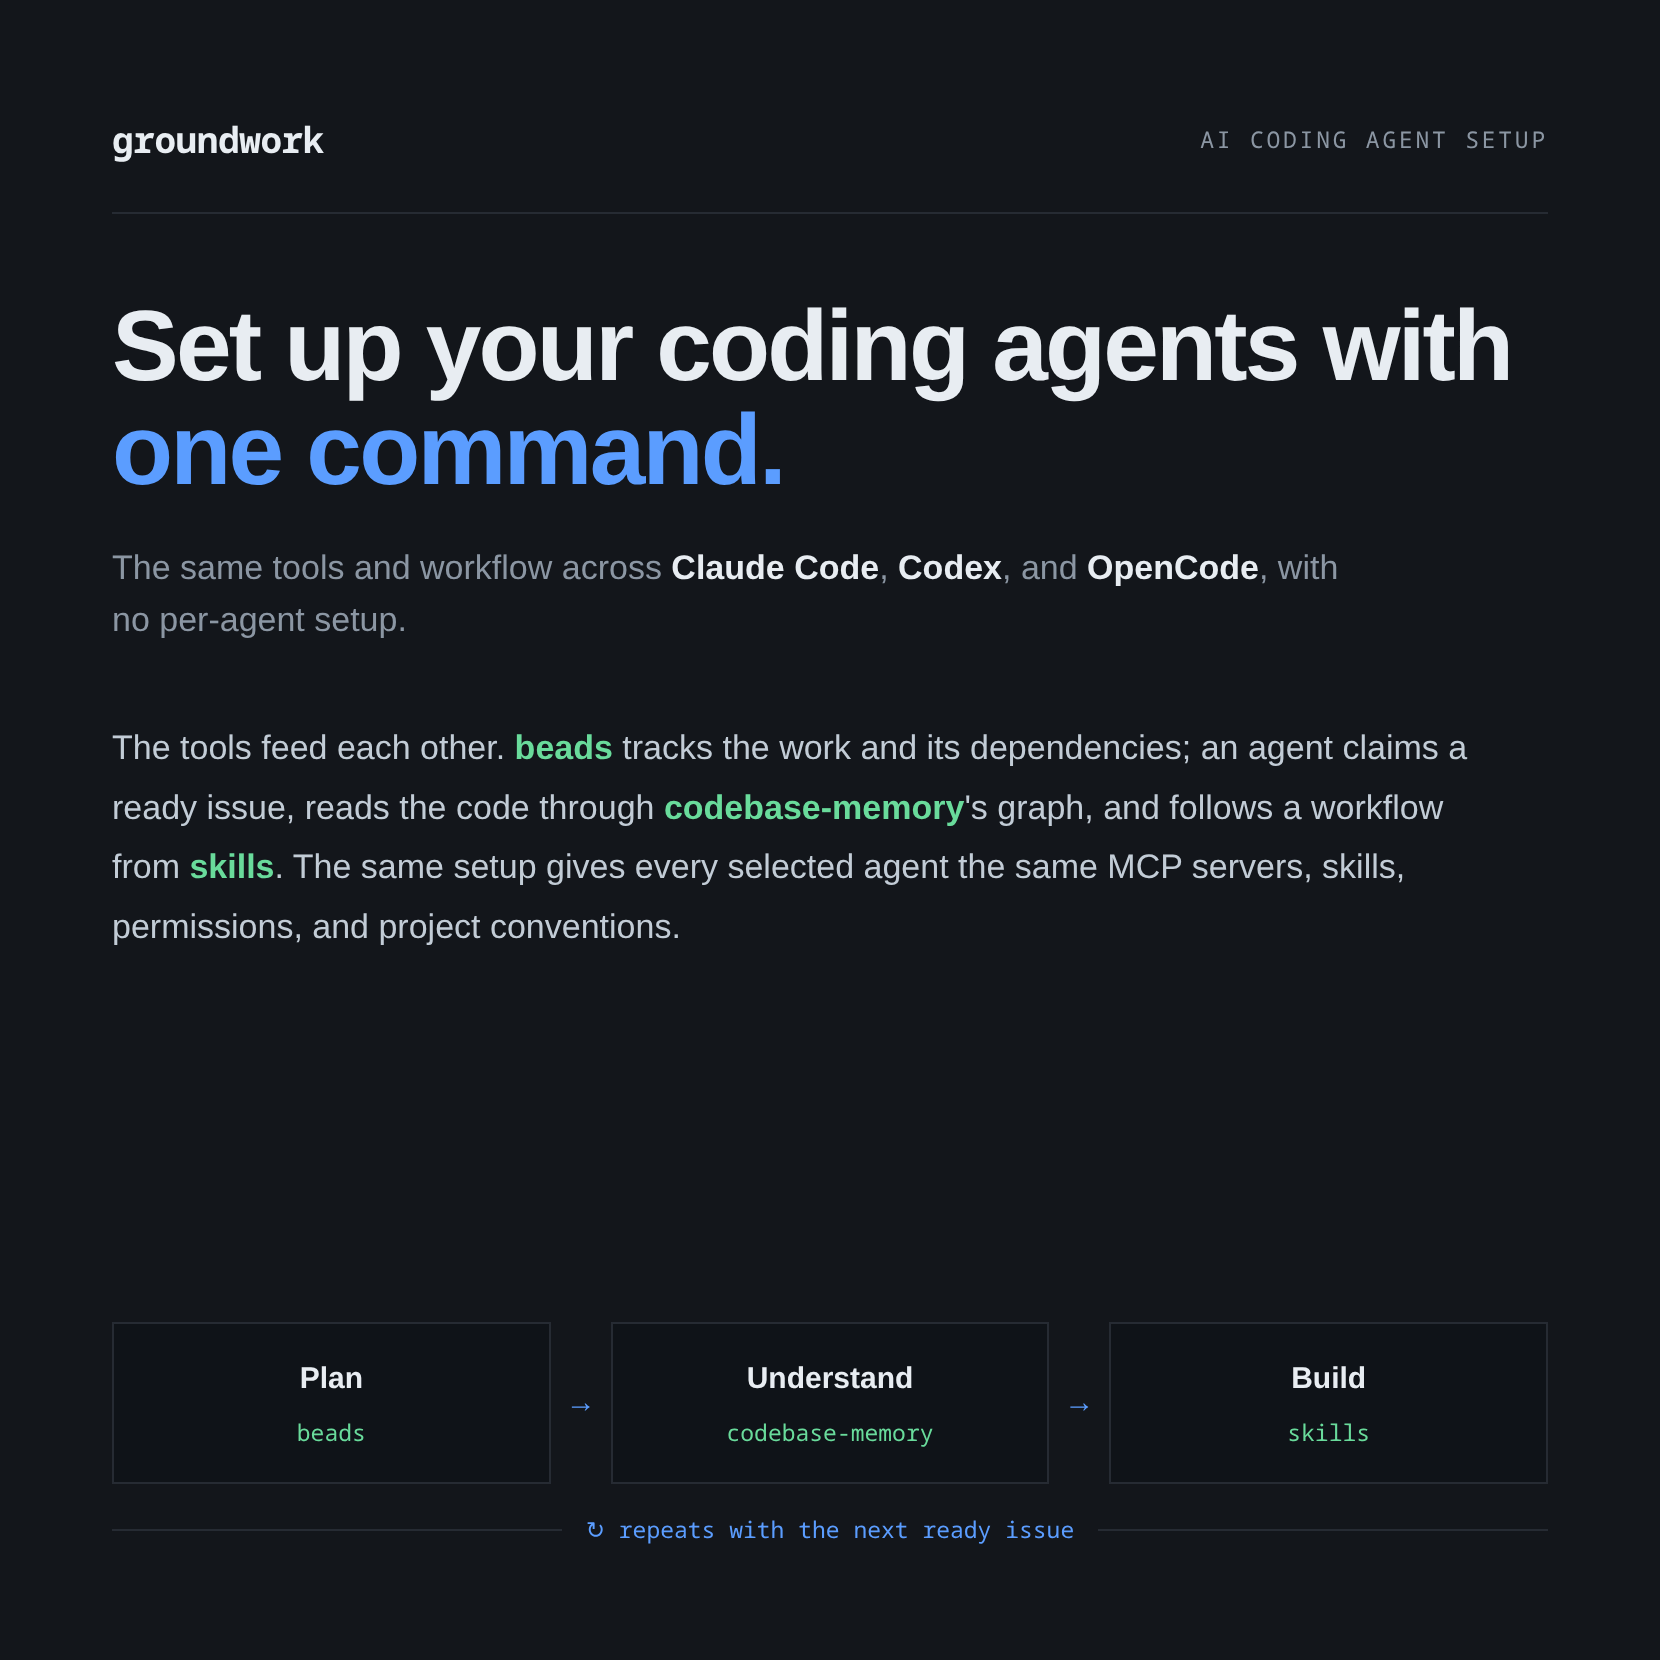
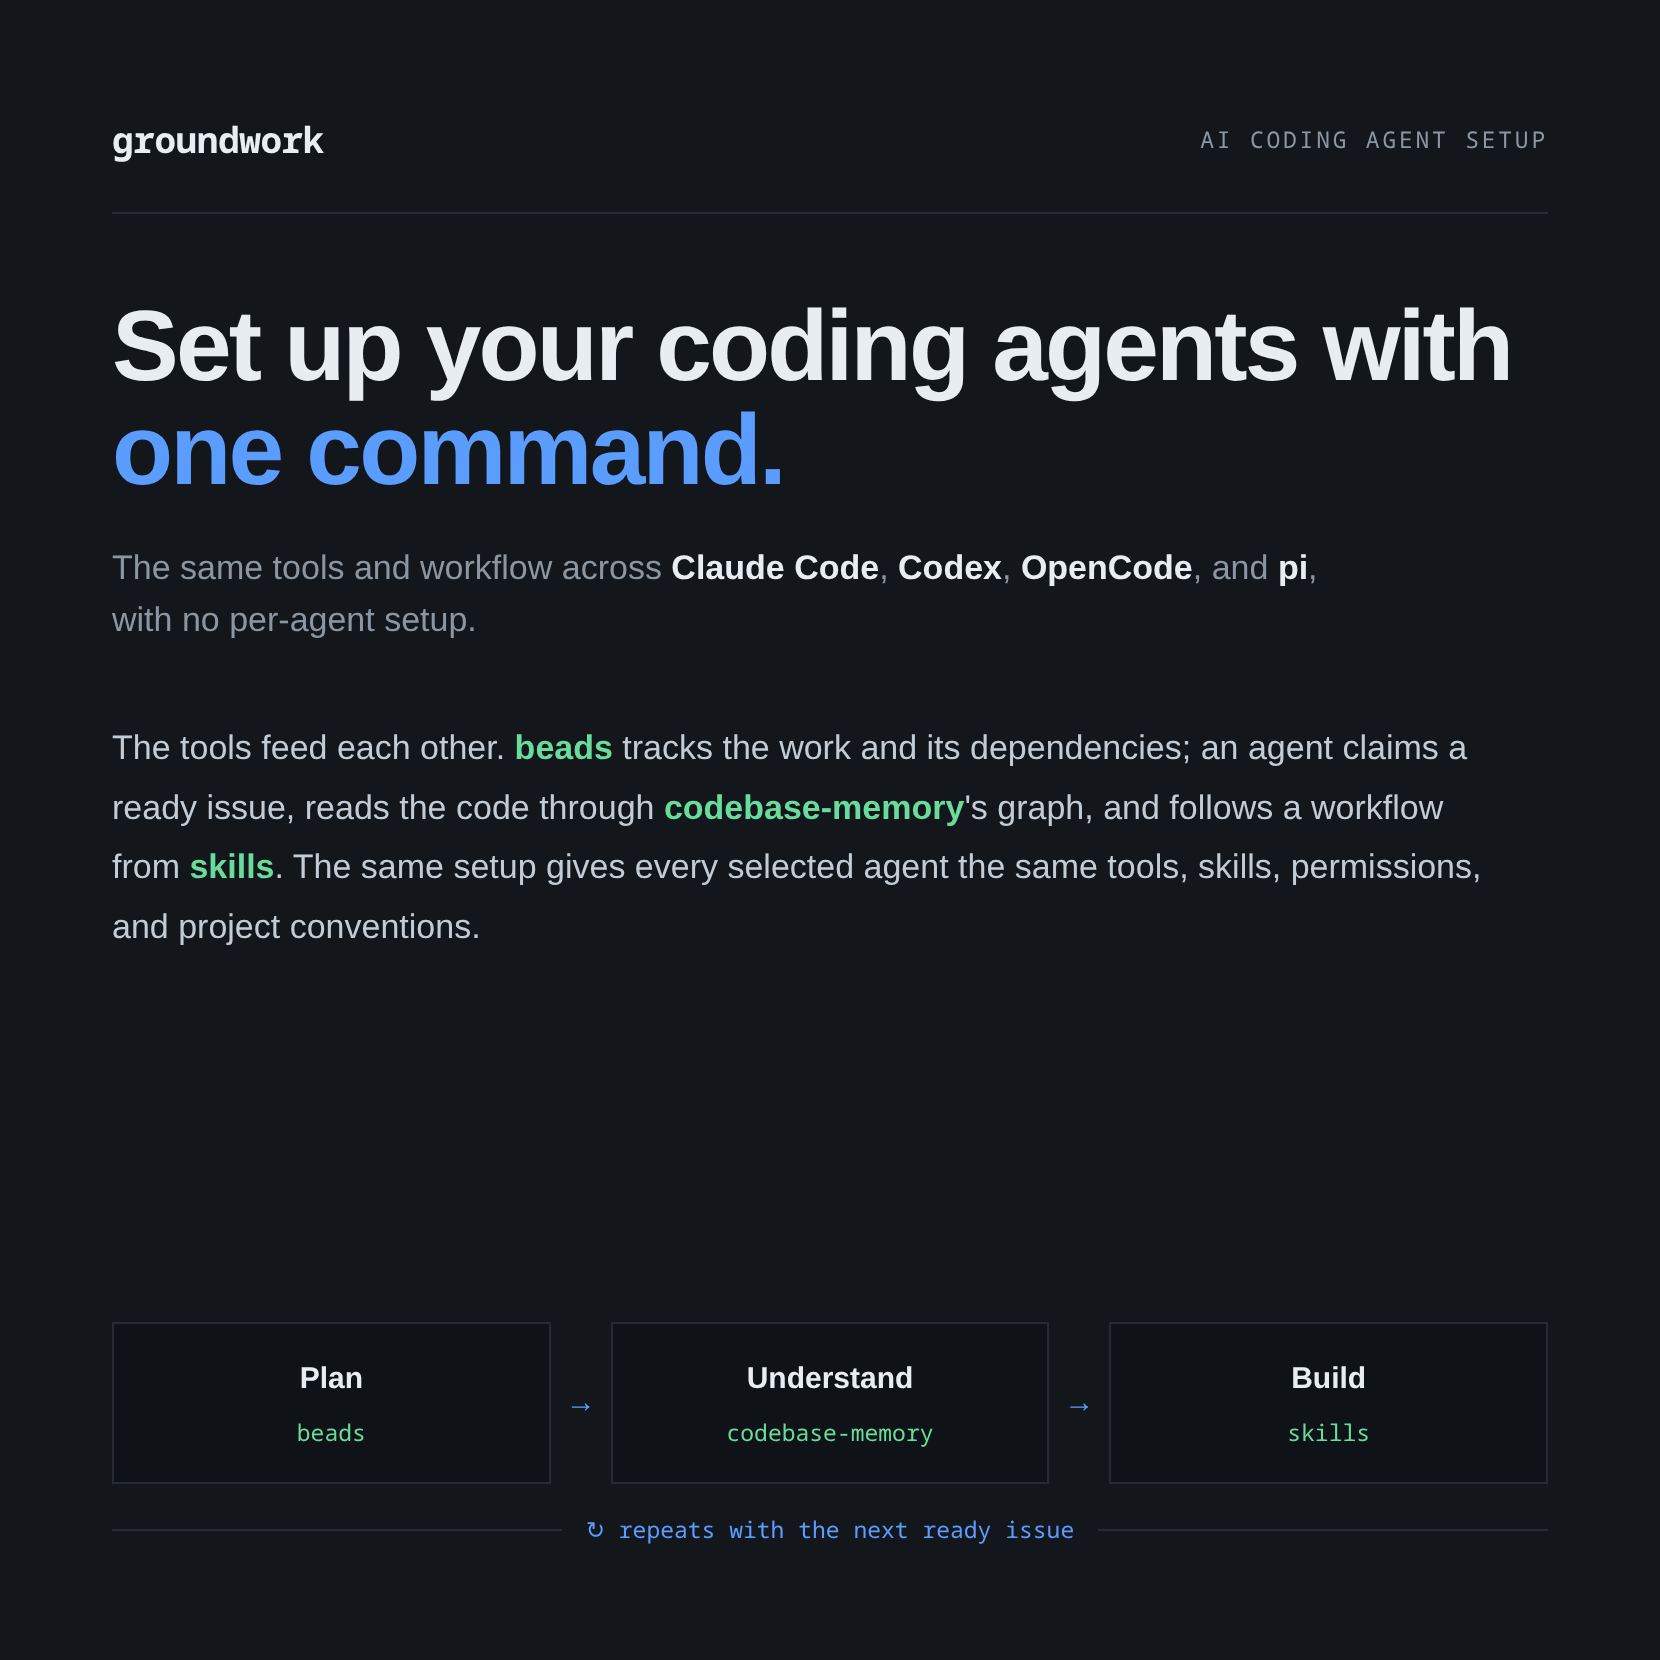
feat(installer): add pi as a fourth agent target
pi joins claude/codex/opencode in the adapter seam, selectable in the TUI or
with --pi. Two of its design choices shape the adapter:

pi ships no MCP client. The core stays small and integrations arrive as
extensions that register tools directly, so a server wanting pi support
generates its own extension under ~/.pi/agent/extensions and there is no
config for mergeMcp to write.

pi has no permission prompts either. Its one analog is project trust, so
ensurePiTrust sets defaultProjectTrust = "always" in the global settings,
matching the posture the other three adapters set. Existing settings merge
through untouched.

Also excludes .agents/, which is where the skills CLI actually stores every
skill: with several agents selected it writes .agents/skills once and
symlinks only .claude/skills, because codex, opencode, and pi all read
.agents/skills natively. The README described a per-agent layout that has
never existed, and the directory holding the skills was never excluded.

Claude-Session: https://claude.ai/code/session_01NCTSBcgXiPFNFs85WnwNta

diff --git a/docs/groundwork-flow.html b/docs/groundwork-flow.html
@@ -108,14 +108,14 @@
 
     <div class="hs-head">
       <h1>Set up your coding agents with <span class="ac">one command.</span></h1>
-      <p>The same tools and workflow across <b>Claude Code</b>, <b>Codex</b>, and
-         <b>OpenCode</b>, with no per-agent setup.</p>
+      <p>The same tools and workflow across <b>Claude Code</b>, <b>Codex</b>,
+         <b>OpenCode</b>, and <b>pi</b>, with no per-agent setup.</p>
     </div>
 
     <p class="hs-prose">The tools feed each other. <strong>beads</strong> tracks the work and its
       dependencies; an agent claims a ready issue, reads the code through
       <strong>codebase-memory</strong>'s graph, and follows a workflow from <strong>skills</strong>.
-      The same setup gives every selected agent the same MCP servers, skills, permissions,
+      The same setup gives every selected agent the same tools, skills, permissions,
       and project conventions.</p>
 
     <div class="wf">
@@ -151,7 +151,7 @@
       <div class="num">3</div>
       <div>
         <h3>Every agent works the same</h3>
-        <p>Claude Code, Codex, and OpenCode share the same tools, issues, skills, and principles.</p>
+        <p>Claude Code, Codex, OpenCode, and pi share the same tools, issues, skills, and principles.</p>
       </div>
     </div>
   </div>
@@ -176,7 +176,7 @@
       <svg class="ico-check" viewBox="0 0 16 16" width="16" height="16" fill="currentColor" aria-hidden="true"><path d="M13.78 4.22a.75.75 0 0 1 0 1.06l-7.25 7.25a.75.75 0 0 1-1.06 0L2.22 9.28a.751.751 0 0 1 .018-1.042.751.751 0 0 1 1.042-.018L6 10.94l6.72-6.72a.75.75 0 0 1 1.06 0Z"></path></svg>
     </span>
   </div>
-  <p class="works">Works with <b>Claude Code</b>, <b>Codex</b>, and <b>OpenCode</b>.</p>
+  <p class="works">Works with <b>Claude Code</b>, <b>Codex</b>, <b>OpenCode</b>, and <b>pi</b>.</p>
 
   <footer>
     Open this file in any browser. It is self-contained. Generated from the groundwork configuration.

diff --git a/README.md b/README.md
@@ -1,6 +1,6 @@
 <p align="center">
   <a href="docs/groundwork-flow.html">
-    <img src="docs/assets/groundwork.png?v=5" alt="groundwork: set up your coding agents with one command" width="830">
+    <img src="docs/assets/groundwork.png?v=7" alt="groundwork: set up your coding agents with one command" width="830">
   </a>
 </p>
 
@@ -10,7 +10,7 @@ See [`docs/groundwork-flow.html`](docs/groundwork-flow.html) for the full walkth
 
 ## Install
 
-Run it interactively and select Claude Code, Codex, and/or OpenCode:
+Run it interactively and select any mix of Claude Code, Codex, OpenCode, and pi:
 
 ```bash
 npx github:madebymlai/groundwork
@@ -20,16 +20,16 @@ Skip the selector with per-agent flags:
 
 ```bash
 npx github:madebymlai/groundwork --claude --codex
-npx github:madebymlai/groundwork --opencode
+npx github:madebymlai/groundwork --opencode --pi
 ```
 
 This is a machine-level run. It installs and version-checks shared binaries, then applies the settings each selected agent needs:
 
 | What | Detail |
 |------|--------|
-| [**codebase-memory**](https://github.com/DeusData/codebase-memory-mcp) | Code knowledge-graph MCP server, installed with auto-indexing enabled (`auto_index_limit 50000`) |
+| [**codebase-memory**](https://github.com/DeusData/codebase-memory-mcp) | Code knowledge-graph MCP server, installed with auto-indexing enabled (`auto_index_limit 50000`). It registers itself with each agent, including a generated pi extension |
 | [**beads**](https://github.com/gastownhall/beads) | Dependency-aware `bd` issue tracker, plus a `PRIME.md` priming guide in the beads config dir |
-| Agent permissions | Claude Code `bypassPermissions` (and empty commit/PR attribution), Codex `approval_policy = "never"` + `sandbox_mode = "danger-full-access"`, OpenCode `permission = "allow"` |
+| Agent permissions | Claude Code `bypassPermissions` (and empty commit/PR attribution), Codex `approval_policy = "never"` + `sandbox_mode = "danger-full-access"`, OpenCode `permission = "allow"`, pi `defaultProjectTrust = "always"` |
 | Claude Code context | `CLAUDE_CODE_MAX_CONTEXT_TOKENS=240000` |
 
 Re-running is safe: every step checks the installed version or existing config first and skips what is already in place.
@@ -48,7 +48,7 @@ npx github:madebymlai/groundwork --project
 | `CLAUDE.md` | A one-line `@AGENTS.md` reference, plus a `<code-discovery>` block telling agents to prefer the knowledge graph over grep |
 | `.git/info/exclude` | Local-only ignores for the agent config files above, so they never land in a commit |
 | `.beads/` | `bd init` when the binary is available |
-| Skills | Bundled and curated skills installed into `.claude/skills`, `.codex/skills`, and `.opencode/skills` |
+| Skills | Bundled and curated skills, stored once in `.agents/skills` and symlinked into `.claude/skills`. Codex, OpenCode, and pi read `.agents/skills` directly |
 
 ## Bundled skills
 
